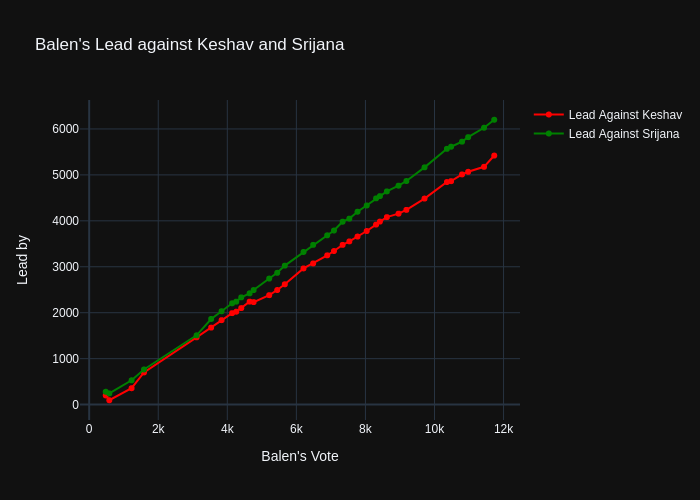
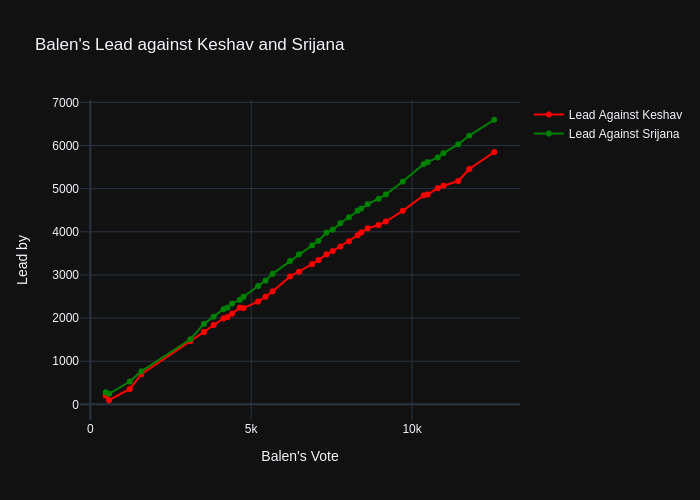
add data

diff --git a/README.md b/README.md
@@ -1,4 +1,4 @@
-## Last Update: 5/17/2022 16:00
+## Last Update: 5/17/2022 18:30
 
 ## Balen's Lead against Keshav Sthapit and Srijana Singh
 ![ScreenShot](final.jpg)
